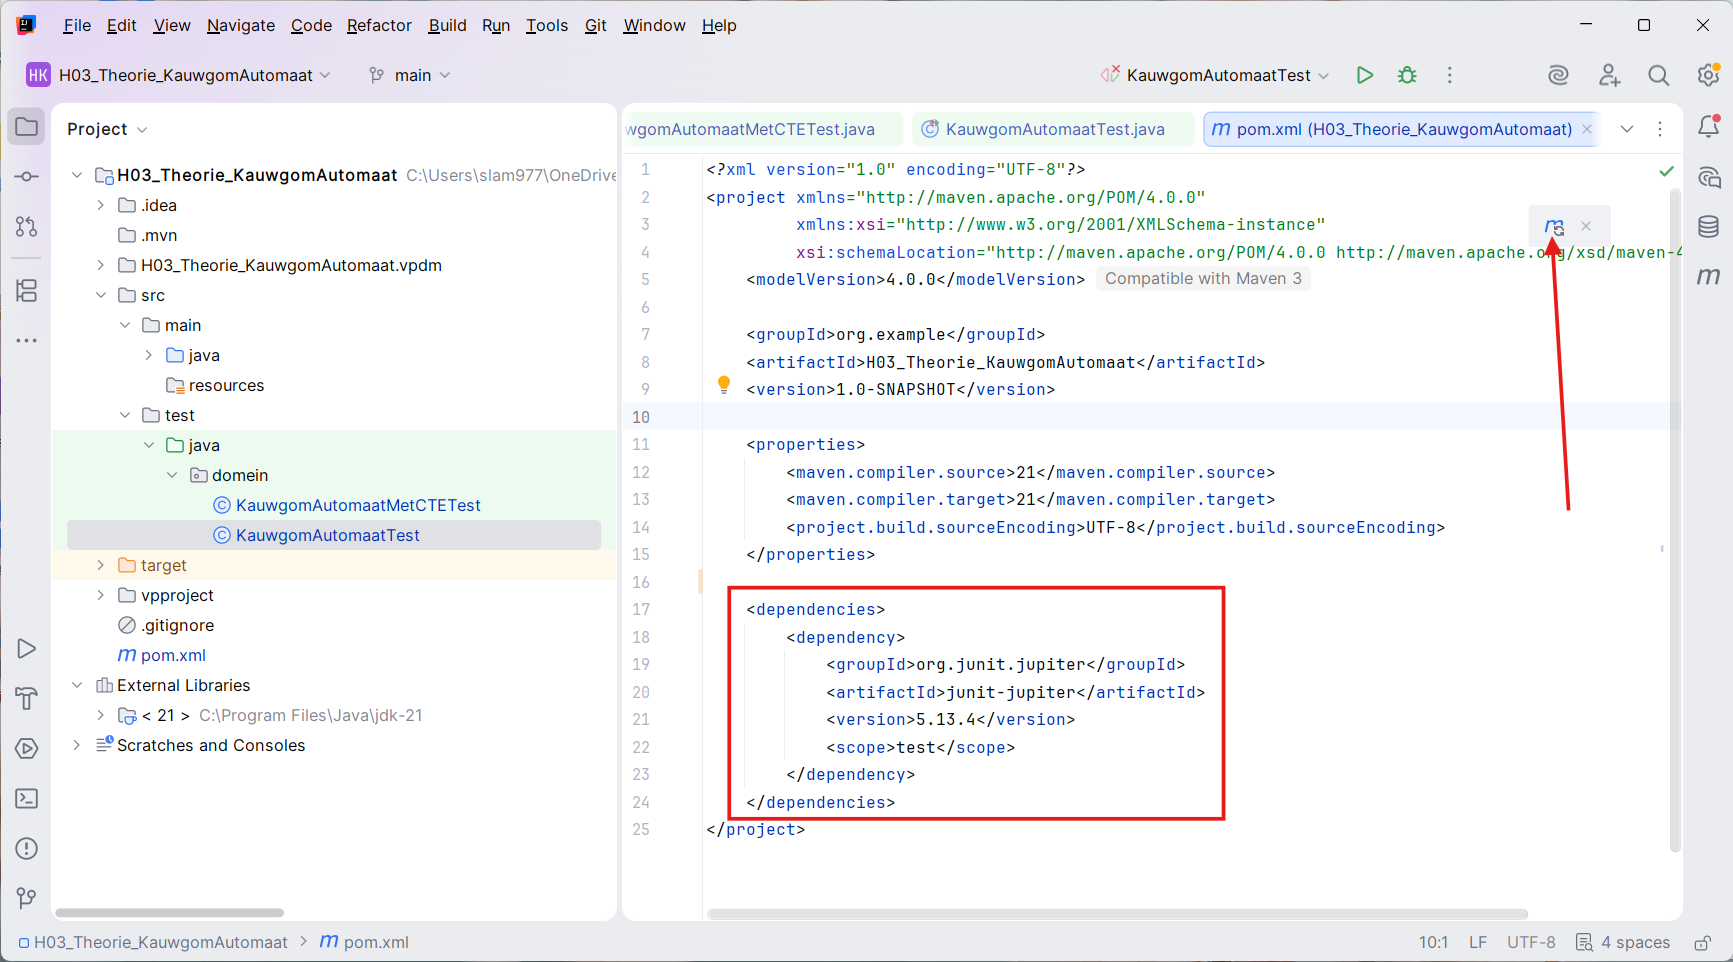
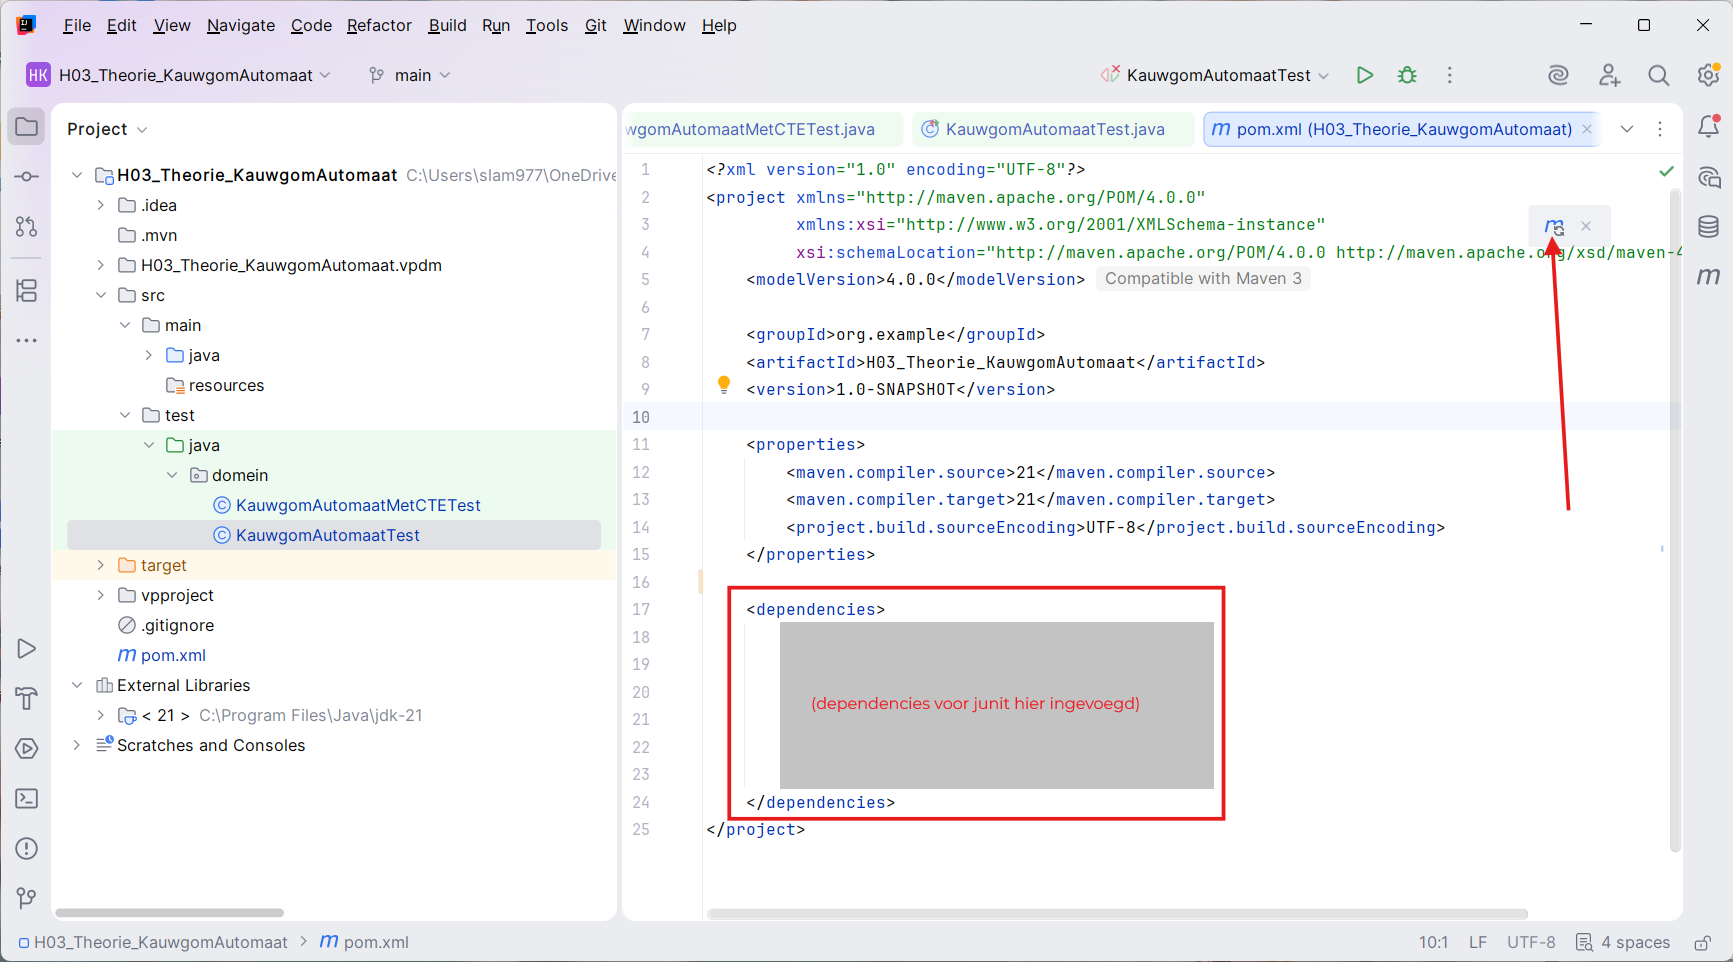
extra tips onder onmisbare sneltoetsen + aanpassing screenshot dependencies

Changed region(s): [[0.4362, 0.6237, 0.7167, 0.842]]

diff --git a/onmisbare-sneltoetsen/onmisbare-sneltoetsen.md b/onmisbare-sneltoetsen/onmisbare-sneltoetsen.md
@@ -22,6 +22,19 @@ Met `Ctrl+Shift+w` kan je de selectie terug verkleinen.
 
 `Shift+Shift`: opent een zoekbalk waarmee je niet alleen kan zoeken in je huidige project, maar ook in menu-acties, instellingen, en tools. Stel dat je een instelling wil aanpassen of een menu wil openen, maar je weet niet meer waar het stond. Dan vind je het met `Shift+Shift` snel terug.
 
+## Live templates
+
+Je kan live templates gebruiken om veelgebruikte constructies snel in te voegen wanneer je aan het werk bent in de editor. Om zo'n codefragment in te voegen, typ je de afkorting en druk je op `Tab`. 
+
+Enkele voorgedefinieerde live templates:
+
+- `sout` typen + `Tab` --> `System.out.println()` verschijnt met de cursor klaar tussen de haakjes.
+- `souf` typen + `Tab` --> `System.out.printf("")` verschijnt met de cursor klaar tussen de haakjes.
+- In een klasse `main` typen + `Tab` --> Er verschijnt een main-methode met de cursor klaar tussen de accolades.
+- `fori` typen + `Tab` --> Er verschijnt een eenvoudige for-lus die itereert van 0 tot een gewenste bovengrens: `for (int i = 0; i < ; i++) {}`
+
+Je kan de volledige lijst met templates vinden onder Settings > Editor > General > Live Templates. Daar kun je ook gepersonaliseerde templates definiëren.
+
 ## Contextacties
 
 `Alt+Enter` is de sneltoets waarmee je binnen de editor contextspecifieke acties kan uitvoeren. Deze sneltoets is beschikbaar telkens je een rood of geel lamp-icoontje in de editor ziet staan. 
@@ -29,6 +42,10 @@ Met `Ctrl+Shift+w` kan je de selectie terug verkleinen.
 - Wanneer je `Alt+Enter` indrukt op een als "Warning" gemarkeerd code-element in de editor, verschijnt er een lijst met mogelijke oplossingen waaruit je er één kan selecteren met de pijltjestoetsen.
 
    ![Quick-fix-preview](screenshots/context-actions-inspection-preview.png)
+
+- Ook wanneer je een statement nog maar gedeeltelijk hebt geschreven, kan `Alt+Enter` gebruikt worden voor smart completion, zoals in het voorbeeld hieronder van een switch statement:
+
+   ![smart-completion](screenshots/context-actions-smart-completion.png)
 
 - Als een import ontbreekt, wordt dit in het rood als een fout gemarkeerd. Druk op `Alt+Enter` en het importstatement zal automatisch toegevoegd worden, of, als er meerdere opties zijn, kun je uit een lijst de gewenste import selecteren.
 
